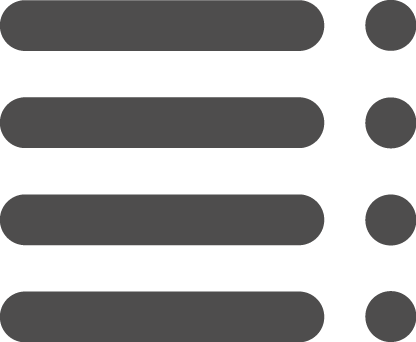
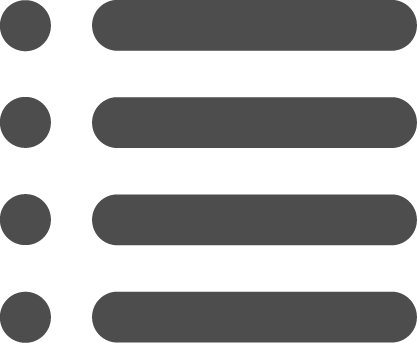
New images + adapat css

diff --git a/ezmanager/htdocs/css/style_podman.css b/ezmanager/htdocs/css/style_podman.css
@@ -581,11 +581,14 @@ body{
     background-image:url(../images/page4/BResetStatsBackg.png);
 }
 
+.ButtonMoreOptions .icon-btn {
+    background-image:url(../images/page4/MoreOptions.png);
+}
+
 .ButtonInfoAlbum{
     margin-left:12px;
     margin-top:5px;
     margin-bottom:5px;
-
 }
 
 img.dropdown-icon {
@@ -593,13 +596,15 @@ img.dropdown-icon {
 }
 
 /* Button drop down */
-.dropdown-background-icon-button a {
-    margin-left: 10px;
+.dropdown-background-icon-button a, .dropdown-background-icon-button .icon-btn {
     padding-left: 25px !important;
-    margin-left: 10px;
     background-repeat: no-repeat;
     background-position: left center;
     background-size: 20px;
+}
+
+.dropdown-background-icon-button a {
+    margin-left: 10px;
 }
 
 /*--Bouton triangle [fin]--*/

diff --git a/ezmanager/tmpl_sources/div_asset_details.php b/ezmanager/tmpl_sources/div_asset_details.php
@@ -117,11 +117,12 @@ function print_info($info, $suffix = '') {
         </div>
 
         <div class="LigneButtonRight LigneButton btn-group" role="group">
-            <button type="button" class="btn btn-default btn-xs dropdown-toggle" data-toggle="dropdown" 
-                    aria-haspopup="true" aria-expanded="false">
-                <span class="glyphicon glyphicon-list" aria-hidden="true"></span>
-                ®More_options®
-                <span class="caret"></span>
+            <button type="button" class="btn btn-default btn-xs dropdown-toggle dropdown-background-icon-button ButtonMoreOptions" 
+                    data-toggle="dropdown" aria-haspopup="true" aria-expanded="false">
+                <span class="icon-btn">
+                    ®More_options®
+                    <span class="caret"></span>
+                </span>
             </button>
             <ul class="dropdown-menu dropdown-menu-right">
               <li><span class="ButtonSuppAlbum">
